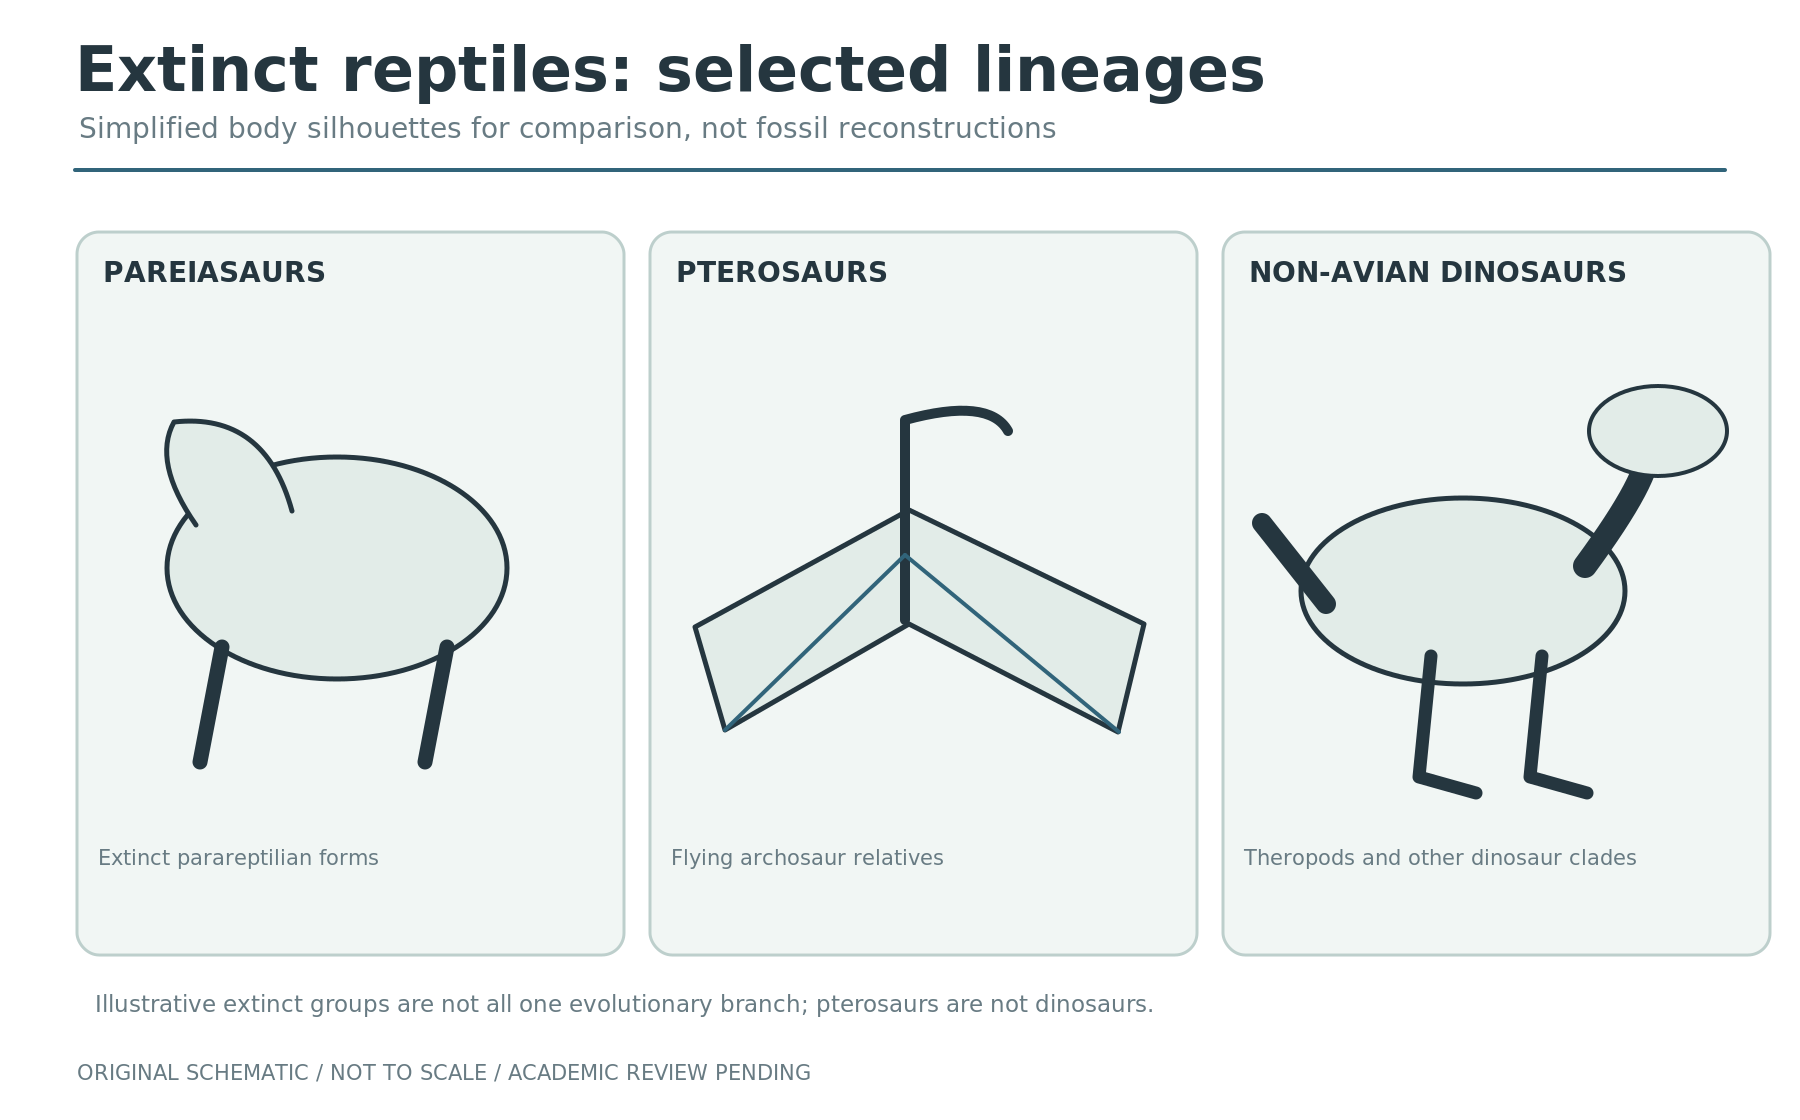
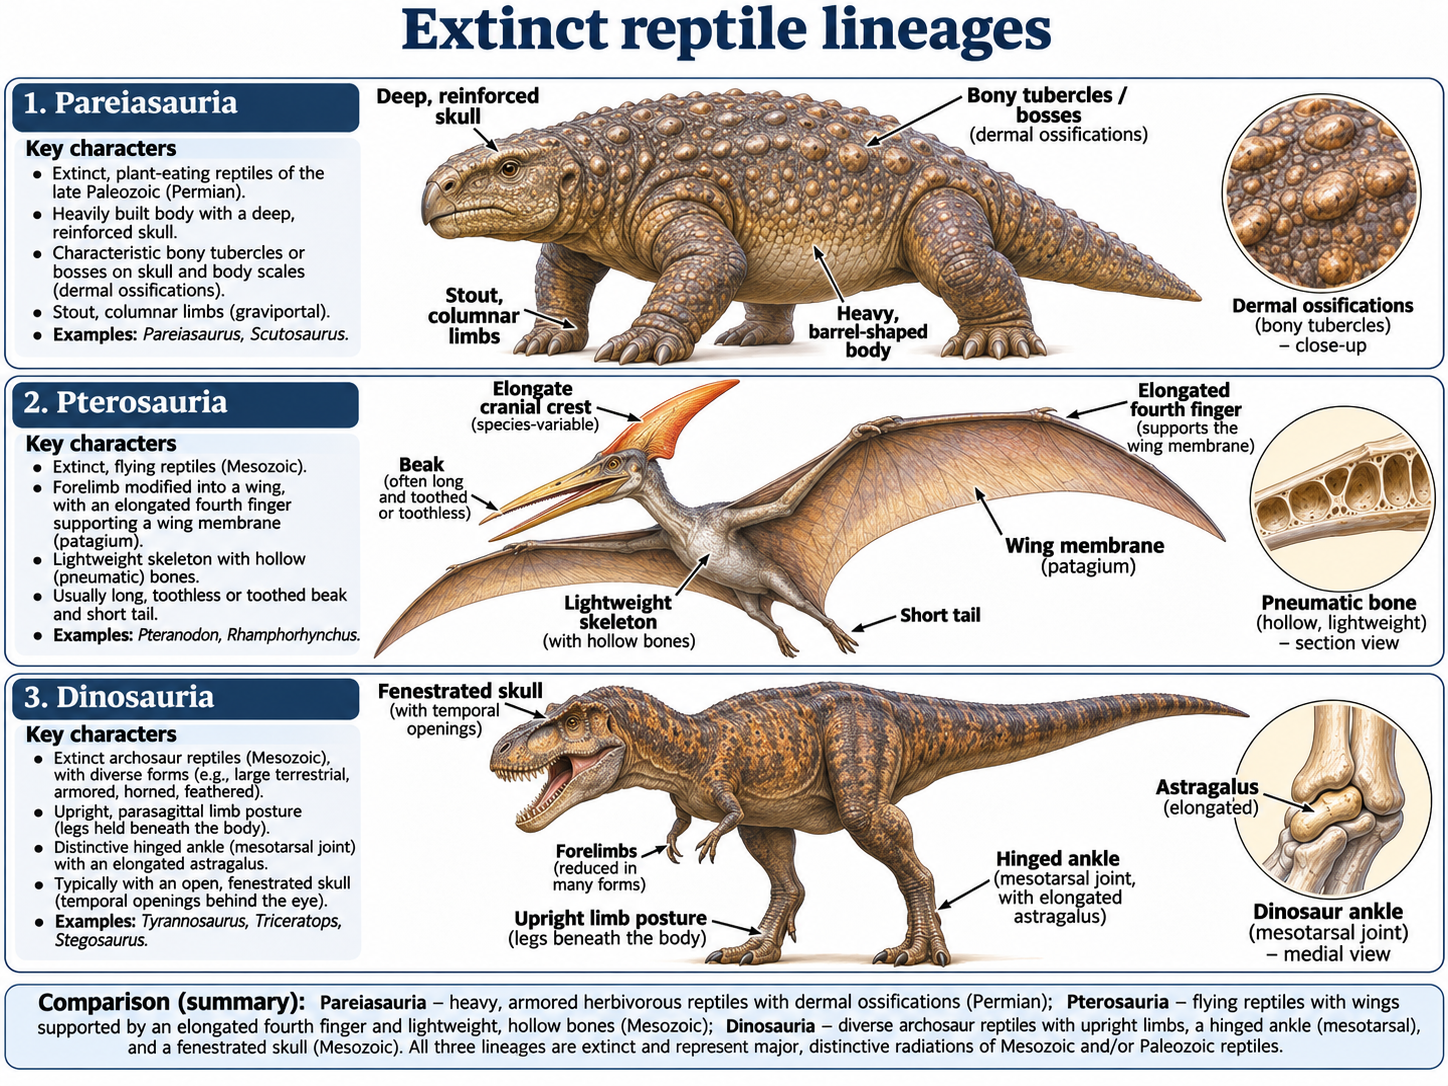
fix(chordata): complete exact AI10 10/10 PNG source intake with audited metadata

diff --git a/docs/AI10_SOURCE_INTAKE_10_OF_10_20261113.md b/docs/AI10_SOURCE_INTAKE_10_OF_10_20261113.md
@@ -1,0 +1,15 @@
+# CHORDATA AI10 source intake — all 10 original PNGs committed
+
+**Date:** 13 November 2026
+**Working branch:** `qa/chordata-play-finalisation-20261112`
+
+All ten exact, owner-selected AI10 original PNGs have been committed to their registered Chordata lesson paths. The first eight were already accepted into this QA branch; the remaining two have now been transferred as unmodified bytes through GitHub Git Data blobs, without Colab, and attached through an atomic Git tree commit.
+
+| Diagram ID | Installed PNG | SHA-256 |
+|---|---|---|
[2 lines of base64/hex data omitted]
+
+The Git object identities for those exact PNG bytes are `072af78849d9e6500f009e2e3f8d5baf65d64a30` and `16bfe7fd35de459d21a772481b63264022406148`. The previous provisional PNGs remain recoverable from Git history. Manifest attributions now correctly identify OpenAI ImageGen originals rather than falsely crediting unrelated historical figures. All other previously accepted figures and source credits remain unchanged.
+
+**RELEASE HOLD:** Owner-directed integration approval is not independent anatomical or Tamil editorial sign-off. Both reviews remain `PENDING`, as do final on-device checks and Play upload-key signing. Run `python3 scripts/audit_ai10_release_assets.py`, `python3 scripts/qa_all.sh` and the exact-commit Android QA workflow before distributing an APK. Do not publish an AAB based on a pre-AI10 green build.

diff --git a/docs/AI10_SOURCE_INTAKE_8_OF_10_20261113.md b/docs/AI10_SOURCE_INTAKE_8_OF_10_20261113.md
@@ -1,3 +1,5 @@
+> HISTORICAL CHECKPOINT ONLY — superseded by [10-of-10 source integration](AI10_SOURCE_INTAKE_10_OF_10_20261113.md). The eight-image state below is preserved for audit history.
+
 # AI10 source intake checkpoint — 13 November 2026
 
 Eight of the ten exact owner-approved AI-generated teaching PNG objects were already present in this GitHub repository's object database and have been linked into this QA branch. They match the committed manifest SHA-256 values and were connected to their assigned lesson slots. English and Tamil keys, author/rights metadata, the coverage ledger and 64-figure independent-review register have been synchronised; review decisions for changed images remain PENDING.
